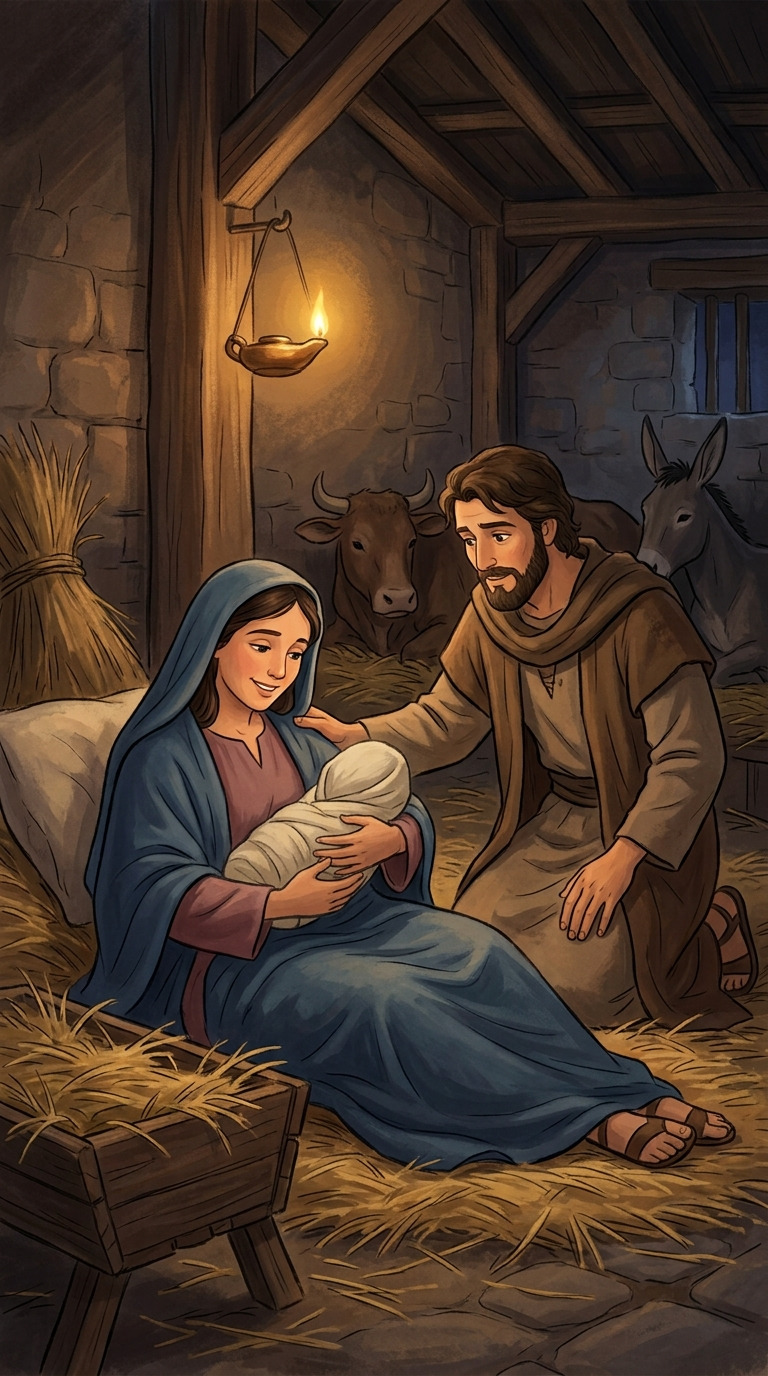
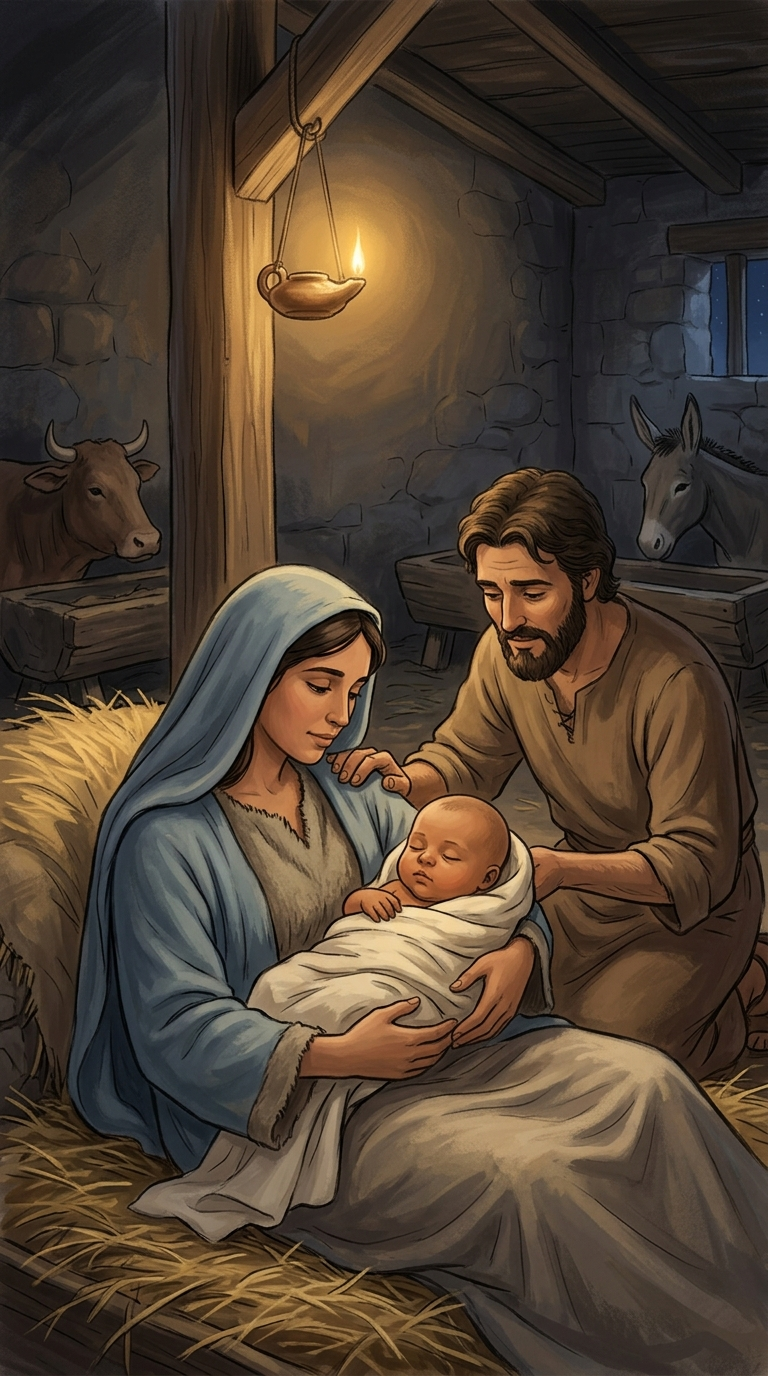
stills: build-70 gap-filled (s6-s9 painted, s7 ancient-only reroll) + build-84 completed (s12 painted; s6 REDONE face-shown baby per Cameron's 2026-07-17 child ruling, gate now PASS); canonical gate-safe BOY/BABY locks added to FACTORY-ORDERS

diff --git a/media-production/build-70-temptations/gen_stills_flow.py b/media-production/build-70-temptations/gen_stills_flow.py
@@ -1,0 +1,94 @@
+#!/usr/bin/env python3
+"""Build full Flow prompts for #64 (pool of Bethesda) from PROMPTS.md and generate
+stills via flow_driver.py (Nano Banana 2, 9:16, $0). FACE LAW v3 TEXT-ONLY: the
+JESUS LOCK v3 paragraph is inline in each Jesus shot; NO --ref (the attached bust
+echoes — playbook). Continuity locks ([INFIRM-MAN LOCK], [BETHESDA-SETTING LOCK])
+are parsed from PROMPTS.md's CONTINUITY LOCKS section and expanded per shot.
+
+Usage:
+  python gen_stills_flow.py --list        # print shot slugs
+  python gen_stills_flow.py --print SLUG  # print one full prompt
+  python gen_stills_flow.py --only SLUG   # generate ONE shot
+  python gen_stills_flow.py               # generate ALL missing shots
+"""
+import argparse
+import re
+import subprocess
+import sys
+from pathlib import Path
+
+HERE = Path(__file__).resolve().parent
+DRIVER = HERE.parent / "flow_driver.py"
+PROMPTS = HERE / "PROMPTS.md"
+ASSETS = HERE / "assets"
+
+STYLE = 'Beautiful hand-painted 2D animation style, reverent and warm, like a classic illustrated storybook of scripture brought to life. Soft painterly brushstroke textures, glowing golden light, muted earth tones with warm gold highlights. First-century Judea. Sacred, hushed tone. Not photorealistic. No text or captions in the image. Historically modest clothing: rough-woven wool and linen in undyed earth colors. No modern objects.'
+
+
+def parse_locks(text):
+    locks = {}
+    for m in re.finditer(r"^\[([A-Z][A-Z -]+ LOCK)\] = (.+?)(?=\n\n|\n\[|\n---)", text, re.S | re.M):
+        locks[m.group(1)] = m.group(1) + ": " + " ".join(m.group(2).split())
+    return locks
+
+
+def parse_shots():
+    text = PROMPTS.read_text(encoding="utf-8")
+    locks = parse_locks(text)
+    shots = []
+    for m in re.finditer(r"^## (s\S+)[^\n]*\n(.+?)(?=\n## |\n### |\Z)", text, re.S | re.M):
+        slug, body = m.group(1), m.group(2).strip()
+        body = "\n".join(l for l in body.splitlines() if not l.strip().upper().startswith("REF:"))
+        if "[STILL STYLE BLOCK]" not in body:
+            continue
+        body = body.replace("[STILL STYLE BLOCK]", STYLE)
+        for name, val in locks.items():
+            body = body.replace(f"[{name}]", val)
+        body = " ".join(body.split())
+        shots.append((slug, body))
+    return shots
+
+
+def gen(slug, body):
+    out = ASSETS / f"{slug}.jpeg"
+    print(f"=== generating {slug} ===", flush=True)
+    r = subprocess.run([sys.executable, str(DRIVER), "gen", "--prompt", body, "--out", str(out)])
+    return r.returncode == 0 and out.exists()
+
+
+def main():
+    ap = argparse.ArgumentParser()
+    ap.add_argument("--list", action="store_true")
+    ap.add_argument("--print", dest="pr")
+    ap.add_argument("--only")
+    args = ap.parse_args()
+    shots = parse_shots()
+    ASSETS.mkdir(parents=True, exist_ok=True)
+    if args.list:
+        for s, _ in shots:
+            print(s)
+        return
+    if args.pr:
+        for s, b in shots:
+            if s == args.pr:
+                print(b)
+        return
+    if args.only:
+        for s, b in shots:
+            if s == args.only:
+                sys.exit(0 if gen(s, b) else 1)
+        sys.exit(f"no shot {args.only}")
+    failed = []
+    for s, b in shots:
+        if (ASSETS / f"{s}.jpeg").exists():
+            print(f"skip {s} (exists)")
+            continue
+        if not gen(s, b):
+            failed.append(s)
+    if failed:
+        sys.exit("FAILED: " + ", ".join(failed))
+    print("ALL STILLS GENERATED")
+
+
+if __name__ == "__main__":
+    main()

diff --git a/media-production/build-84-no-room-manger/gen_stills_flow.py b/media-production/build-84-no-room-manger/gen_stills_flow.py
@@ -1,0 +1,94 @@
+#!/usr/bin/env python3
+"""Build full Flow prompts for #64 (pool of Bethesda) from PROMPTS.md and generate
+stills via flow_driver.py (Nano Banana 2, 9:16, $0). FACE LAW v3 TEXT-ONLY: the
+JESUS LOCK v3 paragraph is inline in each Jesus shot; NO --ref (the attached bust
+echoes — playbook). Continuity locks ([INFIRM-MAN LOCK], [BETHESDA-SETTING LOCK])
+are parsed from PROMPTS.md's CONTINUITY LOCKS section and expanded per shot.
+
+Usage:
+  python gen_stills_flow.py --list        # print shot slugs
+  python gen_stills_flow.py --print SLUG  # print one full prompt
+  python gen_stills_flow.py --only SLUG   # generate ONE shot
+  python gen_stills_flow.py               # generate ALL missing shots
+"""
+import argparse
+import re
+import subprocess
+import sys
+from pathlib import Path
+
+HERE = Path(__file__).resolve().parent
+DRIVER = HERE.parent / "flow_driver.py"
+PROMPTS = HERE / "PROMPTS.md"
+ASSETS = HERE / "assets"
+
+STYLE = 'Beautiful hand-painted 2D animation style, reverent and warm, like a classic illustrated storybook of scripture brought to life. Soft painterly brushstroke textures, glowing golden light, muted earth tones with warm gold highlights. First-century Judea. Sacred, hushed tone. Not photorealistic. No text or captions in the image. Historically modest clothing: rough-woven wool and linen in undyed earth colors. No modern objects.'
+
+
+def parse_locks(text):
+    locks = {}
+    for m in re.finditer(r"^\[([A-Z][A-Z -]+ LOCK)\] = (.+?)(?=\n\n|\n\[|\n---)", text, re.S | re.M):
+        locks[m.group(1)] = m.group(1) + ": " + " ".join(m.group(2).split())
+    return locks
+
+
+def parse_shots():
+    text = PROMPTS.read_text(encoding="utf-8")
+    locks = parse_locks(text)
+    shots = []
+    for m in re.finditer(r"^## (s\S+)[^\n]*\n(.+?)(?=\n## |\n### |\Z)", text, re.S | re.M):
+        slug, body = m.group(1), m.group(2).strip()
+        body = "\n".join(l for l in body.splitlines() if not l.strip().upper().startswith("REF:"))
+        if "[STILL STYLE BLOCK]" not in body:
+            continue
+        body = body.replace("[STILL STYLE BLOCK]", STYLE)
+        for name, val in locks.items():
+            body = body.replace(f"[{name}]", val)
+        body = " ".join(body.split())
+        shots.append((slug, body))
+    return shots
+
+
+def gen(slug, body):
+    out = ASSETS / f"{slug}.jpeg"
+    print(f"=== generating {slug} ===", flush=True)
+    r = subprocess.run([sys.executable, str(DRIVER), "gen", "--prompt", body, "--out", str(out)])
+    return r.returncode == 0 and out.exists()
+
+
+def main():
+    ap = argparse.ArgumentParser()
+    ap.add_argument("--list", action="store_true")
+    ap.add_argument("--print", dest="pr")
+    ap.add_argument("--only")
+    args = ap.parse_args()
+    shots = parse_shots()
+    ASSETS.mkdir(parents=True, exist_ok=True)
+    if args.list:
+        for s, _ in shots:
+            print(s)
+        return
+    if args.pr:
+        for s, b in shots:
+            if s == args.pr:
+                print(b)
+        return
+    if args.only:
+        for s, b in shots:
+            if s == args.only:
+                sys.exit(0 if gen(s, b) else 1)
+        sys.exit(f"no shot {args.only}")
+    failed = []
+    for s, b in shots:
+        if (ASSETS / f"{s}.jpeg").exists():
+            print(f"skip {s} (exists)")
+            continue
+        if not gen(s, b):
+            failed.append(s)
+    if failed:
+        sys.exit("FAILED: " + ", ".join(failed))
+    print("ALL STILLS GENERATED")
+
+
+if __name__ == "__main__":
+    main()

diff --git a/media-production/build-84-no-room-manger/PROMPTS.md b/media-production/build-84-no-room-manger/PROMPTS.md
@@ -10,13 +10,7 @@ GOOD news, that he came all the way down to the lowest room in the house, to the
 world had no space for. The WHY the whole video carries: there was no room for him then, so
 that there would always be room for us now. Closing card is an invitation, never a fear-question.
 
-FACE LAW FOR THE INFANT: the newborn is the Christ, and his face is NEVER shown or
-constructed — no infant face, no features. In every shot where the child appears (s6-s9) he
-is a small bundle wrapped in plain swaddling linen, seen from BEHIND the parents, from ABOVE
-at a distance, in soft shadow, or with his face turned away — never a face toward the camera.
-The swaddling linen is the one off-white/cream cloth in the whole video, because it wraps
-him; NOBODY else wears off-white or cream (Mary in blue, Joseph in brown, everyone else in
-darker earth colours), so the eye is never pulled onto a made-up face of Christ.
+FACE LAW FOR THE INFANT (SUPERSEDED 2026-07-17 by the FACE v3 child addendum, FACTORY-ORDERS): the newborn's face IS shown — the baby version of the master face, super cute, bald, warm brown eyes (see [BABY LOCK] in s6). Older face-hidden wording in other shots predates the reversal.
 
 MARY LOCK (s2-s9) — a young woman of about eighteen, warm olive-brown skin, a gentle
 face, in a deep BLUE mantle over a soft dusk-rose tunic with a simple headscarf, clearly
@@ -65,7 +59,8 @@ variant the model returns.
 [STILL STYLE BLOCK] The inside of a humble stone stable or cave at night, lit by one small clay oil lamp, warm shadows on rough walls. Fresh straw is spread on the floor, a rough wooden manger — a feed-trough — stands ready, and a patient ox and a grey donkey rest quietly to one side. Joseph in his brown tunic spreads a cloak over the clean straw to make a place, and Mary in her blue mantle lowers herself to rest, both faces painted clearly, weary and gently grateful for any shelter at all. No newborn is in the frame yet. Not one person wears off-white or cream. Soft single-lamp light, deep warm shadow, hush. Flat clean illustrated storybook look, not a heavy textured oil painting; fills the entire frame edge to edge with no border, no frame and no cream margin. Every figure has two arms, two hands, two legs and one head. One single continuous scene painted edge to edge.
 
 ## s6-the-birth — Shot 6: and she brought forth her firstborn son
-[STILL STYLE BLOCK] The hushed stable by the light of the single oil lamp, deep in the night. Mary, the young woman in her blue mantle, reclines resting on the straw, exhausted and radiant, gazing down with love at a small bundle of plain off-white swaddling linen cradled in her arms — the newborn child, the infant Christ, whose face is turned in toward her and never shown, never visible, at any angle, only the wrapped bundle seen. Joseph in his brown tunic kneels close, one steadying hand on Mary's shoulder, his face painted clearly, awed and tender. The scene is completely modest — only a mother resting and a wrapped baby, nothing graphic. The swaddling linen is the only off-white cloth; Mary is in blue and Joseph in brown, no one else in cream. Warm lamp-glow on the two faces, the child's face unseen. Flat clean illustrated storybook look, not a heavy textured oil painting; fills the entire frame edge to edge with no border, no frame and no cream margin. Every figure has two arms, two hands, two legs and one head. One single continuous scene painted edge to edge.
+BABY LOCK (FACE v3 child addendum, Cameron 2026-07-17): the newborn is the baby version of the master face: a Middle Eastern Jewish baby, super cute, completely bald with no hair at all, warm tan olive-brown skin, big kind warm BROWN eyes, round soft cheeks. His skin stays warm tan, his eyes stay brown. No bright ring of light or aura around his head; the lamplight falls evenly on everyone.
+SINGLE UNIFIED ILLUSTRATION, one scene edge to edge, NOT a grid, triptych, stacked panels or comic strip, no dividing lines, one picture only, artwork fills the ENTIRE frame and bleeds to all four edges, no border, no vignette, one single tall upright vertical painting. [STILL STYLE BLOCK] The hushed stable by the light of the single oil lamp, deep in the night. Mary, the young woman in her blue mantle, reclines resting on the straw, exhausted and radiant, gazing down with love at the newborn cradled in her arms in plain off-white swaddling linen — his small round face SHOWN clearly, eyes peacefully closed, bald and utterly sweet, one tiny hand free of the wrap. Joseph in his brown tunic kneels close, one steadying hand on Mary's shoulder, wonder on his tired face. The ox and donkey dim in the shadows beyond. Every figure: two arms, two hands, one head. One single continuous scene painted edge to edge. 9:16 vertical.
 
 ## s7-the-manger — Shot 7: wrapped in swaddling clothes, laid in a manger
 [STILL STYLE BLOCK] A tender close view of the rough wooden manger filled with straw, seen from beyond the FOOT of the manger looking toward the head, so the newborn — wrapped snugly in plain off-white swaddling linen — lies with the top and back of his linen-wrapped head toward the camera and his face turned entirely away and down into the straw and shadow, completely hidden and never shown, never visible, at any angle; there is NO face, no cheek, no chin, no facial features of any kind visible — only the swaddled form, the wrapped head from behind, and one tiny hand above the linen. The straw glows gold in the light of the single oil lamp. At the frame edges, out of focus, the blue of Mary's mantle and the brown of Joseph's sleeve lean in close. The swaddling linen is the only off-white in the picture; nothing else is cream. Deep warm hush, the manger the still centre of everything. Flat clean illustrated storybook look, not a heavy textured oil painting; fills the entire frame edge to edge with no border, no frame and no cream margin. One single continuous scene painted edge to edge.

diff --git a/media-production/build-70-temptations/PROMPTS.md b/media-production/build-70-temptations/PROMPTS.md
@@ -63,7 +63,7 @@ SINGLE UNIFIED ILLUSTRATION, one scene edge to edge, NOT a grid, triptych, stack
 ## s7-all-the-kingdoms — Shot 7: the crown without the cross
 JESUS LOCK v3: the SAME man as the attached JESUS-MASTER-REF images — identical face, hair and beard in every picture: a Middle Eastern Jewish man of about thirty-three, warm tan olive-brown skin, shoulder-length dark brown-black wavy hair, a full dark beard, kind warm BROWN eyes, one plain undyed off-white cream wool robe (only he wears cream). No halo, no glow. Never caucasian, never pale, never blue-eyed, never blond.
 REF: jesus-master-ref
-SINGLE UNIFIED ILLUSTRATION, one scene edge to edge, NOT a grid, triptych, stacked panels or comic strip, no dividing lines, one picture only, artwork fills the ENTIRE frame and bleeds to all four edges, no border, no vignette, one single tall upright vertical painting. [STILL STYLE BLOCK] From the summit of an exceeding high mountain at dusk: below and beyond, an impossible sweeping vista — range after range fading into gold, and in the far distances the glinting suggestion of great cities, palaces and harbors catching the last light, the glory of the kingdoms of the world spread out like a feast. Jesus stands small on the summit rock with his back mostly to the camera, unmoved, his cream robe still, looking out over all of it. He is COMPLETELY ALONE — no figure, shadow-figure, silhouette or creature anywhere; the offer is a voice with no body. No ring of light around his head. One single continuous scene painted edge to edge. 9:16 vertical.
+SINGLE UNIFIED ILLUSTRATION, one scene edge to edge, NOT a grid, triptych, stacked panels or comic strip, no dividing lines, one picture only, artwork fills the ENTIRE frame and bleeds to all four edges, no border, no vignette, one single tall upright vertical painting. [STILL STYLE BLOCK] ALL the kingdoms are ANCIENT-WORLD ONLY: stone palaces, temples, ziggurats, walled cities of the old world — absolutely NO modern buildings, NO skyscrapers, NO towers of glass, nothing after the first century.  From the summit of an exceeding high mountain at dusk: below and beyond, an impossible sweeping vista — range after range fading into gold, and in the far distances the glinting suggestion of great cities, palaces and harbors catching the last light, the glory of the kingdoms of the world spread out like a feast. Jesus stands small on the summit rock with his back mostly to the camera, unmoved, his cream robe still, looking out over all of it. He is COMPLETELY ALONE — no figure, shadow-figure, silhouette or creature anywhere; the offer is a voice with no body. No ring of light around his head. One single continuous scene painted edge to edge. 9:16 vertical.
 
 ## s8-get-thee-hence — Shot 8: "Get thee hence" [SILENCE]
 JESUS LOCK v3: the SAME man as the attached JESUS-MASTER-REF images — identical face, hair and beard in every picture: a Middle Eastern Jewish man of about thirty-three, warm tan olive-brown skin, shoulder-length dark brown-black wavy hair, a full dark beard, kind warm BROWN eyes, one plain undyed off-white cream wool robe (only he wears cream). No halo, no glow. Never caucasian, never pale, never blue-eyed, never blond.

diff --git a/media-production/FACTORY-ORDERS.md b/media-production/FACTORY-ORDERS.md
@@ -278,7 +278,20 @@ Cameron ruled on depicting Jesus before adulthood:
   super cute, NO hair (bald baby), warm tan skin, big warm brown eyes.
   Same never-caucasian / no-halo rules.
 - GATE NOTE: jesus_face_gate.py v3 demands the byte-identical ADULT lock on
-  any block containing the token "Jesus". Child sheets therefore write "the
-  boy" / "the child" / "the newborn" in shot bodies (playbook precedent:
-  fleet-shot wording) and carry a byte-identical BOY-JESUS LOCK or BABY-JESUS
-  LOCK paragraph (above text) in every shot he appears in.
+  any block containing the token "Jesus", and its banned-drift scan catches
+  the words caucasian/blue-eyed/blond/halo anywhere outside that exact lock.
+  Child sheets therefore write "the boy" / "the child" / "the newborn" in shot
+  bodies, never the token "Jesus" (playbook fleet-shot precedent), and use
+  these CANONICAL GATE-SAFE lock paragraphs byte-identically in every shot he
+  appears in:
+  [BOY LOCK] = the boy is the same person as the master face at about twelve
+  years old: a Middle Eastern Jewish boy, warm tan olive-brown skin,
+  shoulder-length dark brown-black wavy hair, kind warm BROWN eyes, beardless,
+  the same gentle features as the master face grown younger. His skin stays
+  warm tan, his hair stays dark, his eyes stay brown. No bright ring of light
+  or aura around his head. Only he wears cream.
+  [BABY LOCK] = the newborn is the baby version of the master face: a Middle
+  Eastern Jewish baby, super cute, completely bald with no hair at all, warm
+  tan olive-brown skin, big kind warm BROWN eyes, round soft cheeks. His skin
+  stays warm tan, his eyes stay brown. No bright ring of light or aura around
+  his head; the light falls evenly on everyone.
